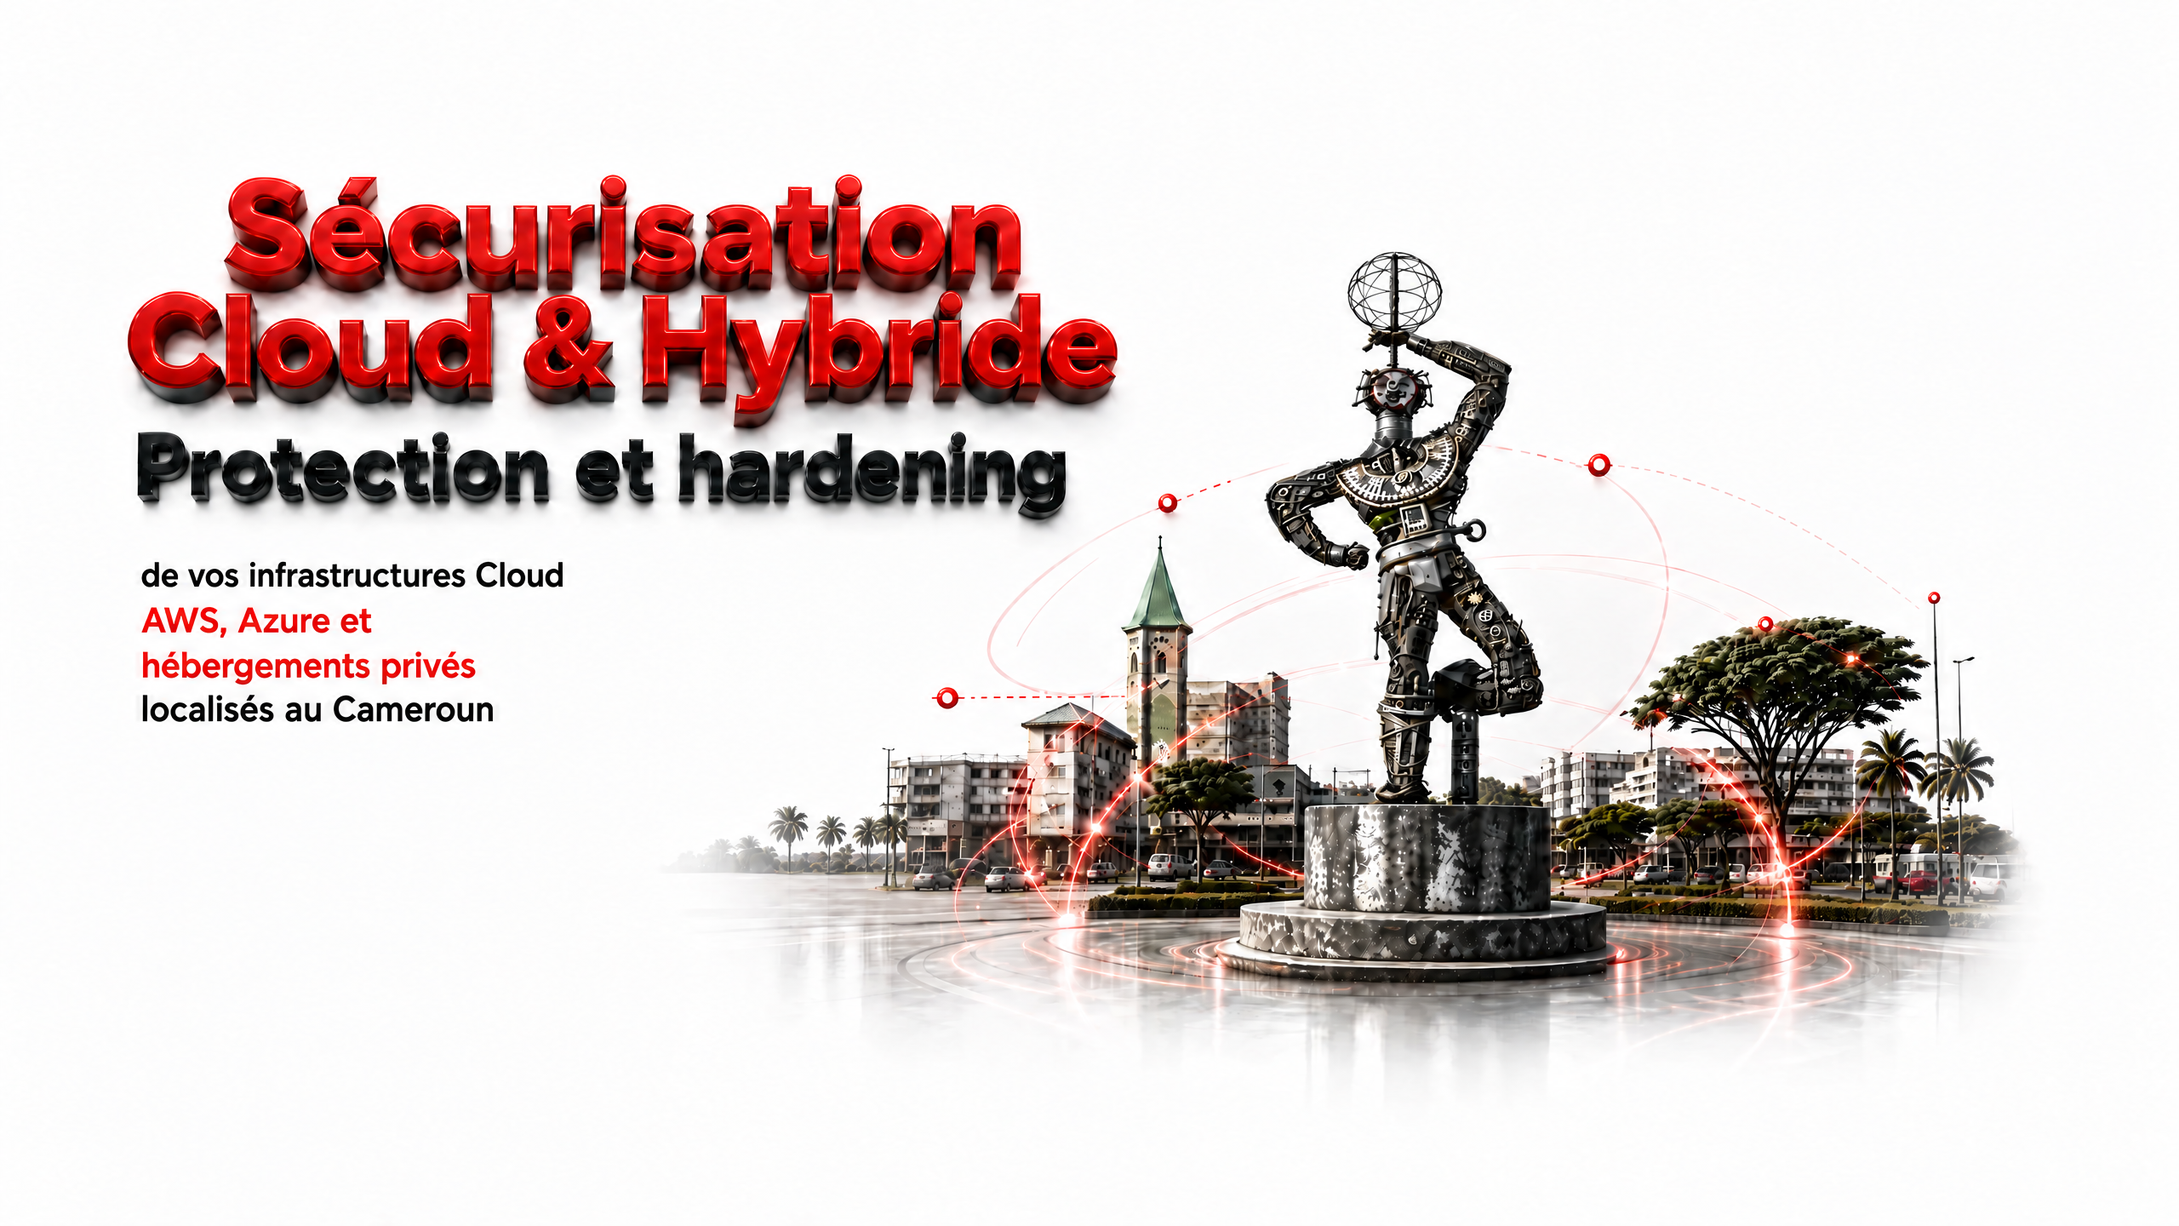
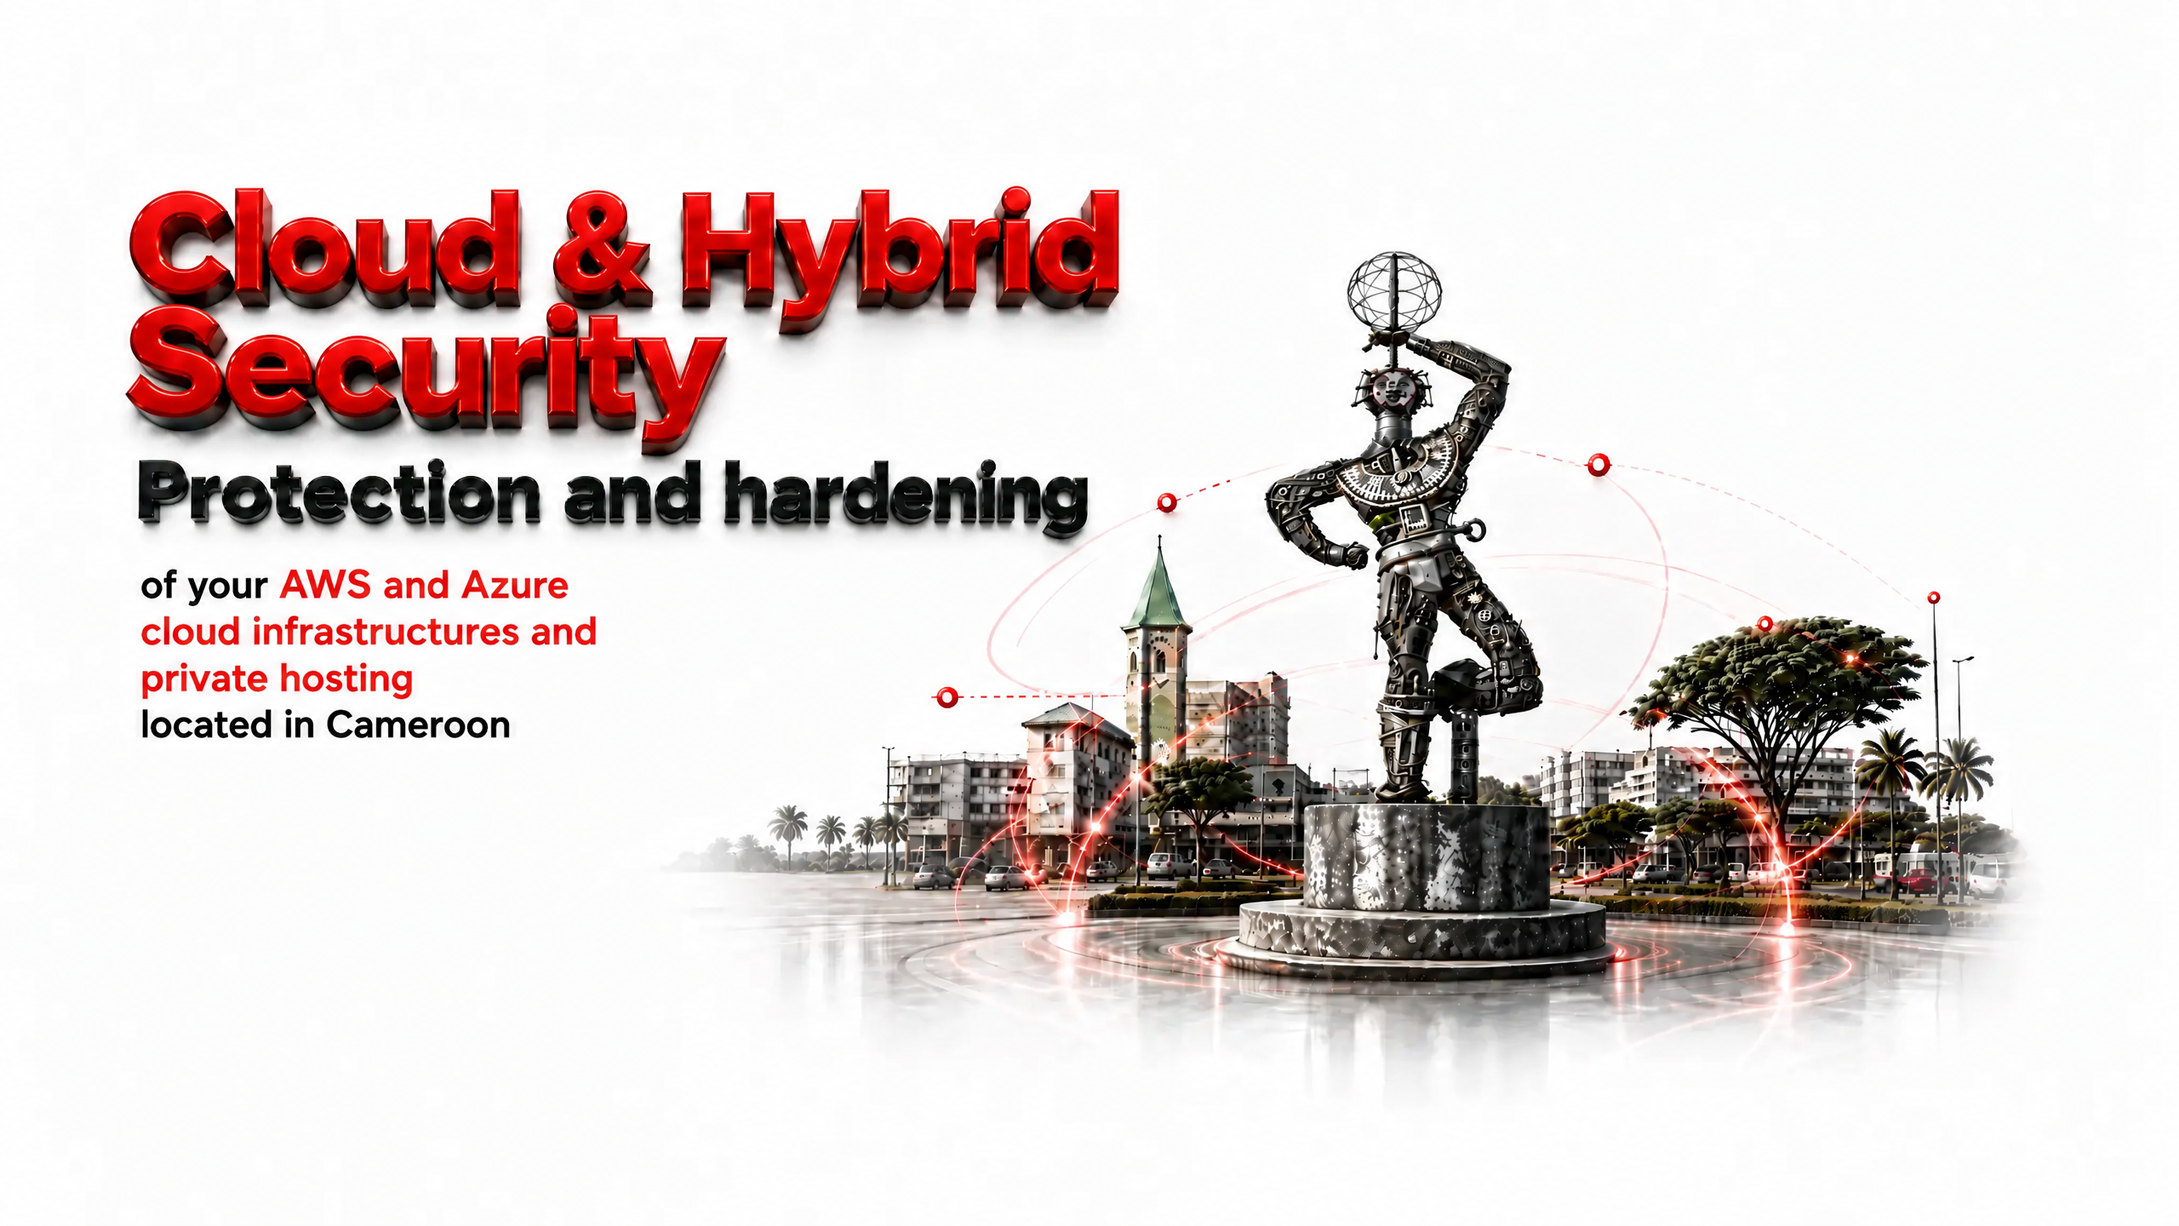
traduction de tous les fichier

Changed region(s): [[0.0625, 0.125, 0.5312, 0.625], [0.3438, 0.1875, 0.9062, 0.8125]]

diff --git a/services.html b/services.html
@@ -13,7 +13,7 @@
   <link href="https://fonts.googleapis.com/css2?family=Inter:wght@400;500;600;700&family=Space+Grotesk:wght@500;600;700&display=swap" rel="stylesheet">
 
   <!-- Stylesheet unifiée -->
-  <link rel="stylesheet" href="styles.css">
+  <link rel="stylesheet" href="styles.css?v=20261012">
   </head>
 <body>
 
@@ -125,7 +125,7 @@
         <div class="services-grid">
           <!-- Service 1 -->
           <div class="service-card reveal" id="service-audit" data-category="security">
-            <img src="pentesting_audit_cyber.png" alt="Pen-Testing et audit cyber" class="service-card-img" style="width: 350px; height: 450px;">
+            <img data-src-fr="pentesting_audit_cyber.png" data-src-en="img en/penetration_testing_cyber_audit_english.png" alt="Pen-Testing et audit cyber" class="service-card-img" style="width: 350px; height: 450px;">
             <h3 class="service-title">Pen-Testing & Audit Cyber</h3>
             <p class="service-desc">Simulations d'attaques réelles (boîte noire / blanche), audit de code, analyse de vulnérabilités et plan de remédiation complet pour votre entreprise.</p>
             <div class="service-tags">
@@ -138,7 +138,7 @@
 
           <!-- Service 2 -->
           <div class="service-card reveal" id="service-cloud" data-category="cloud">
-            <img src="cloud_hybride_sans_nuages_ni_serveur.png" alt="Sécurisation Cloud et hybride" class="service-card-img" style="width: 350px; height: 450px;">
+            <img data-src-fr="cloud_hybride_sans_nuages_ni_serveur.png" data-src-en="img en/cloud_hybride_sans_nuages_ni_serveur.png" alt="Sécurisation Cloud et hybride" class="service-card-img" style="width: 350px; height: 450px;">
             <h3 class="service-title">Sécurisation Cloud & Hybride</h3>
             <p class="service-desc">Protection et hardening de vos infrastructures Cloud AWS, Azure et hébergements privés localisés au Cameroun avec sauvegarde automatisée.</p>
             <div class="service-tags">
@@ -151,7 +151,7 @@
 
           <!-- Service 3 -->
           <div class="service-card reveal" id="service-infogerance" data-category="cloud">
-            <img src="infogerance_helpdesk_arche_j_aime_paysage.png" alt="Infogérance informatique" class="service-card-img" style="width: 350px; height: 450px;">
+            <img data-src-fr="infogerance_helpdesk_arche_j_aime_paysage.png" data-src-en="img en/managed_it_helpdesk_english.png" alt="Infogérance informatique" class="service-card-img" style="width: 350px; height: 450px;">
             <h3 class="service-title">Infogérance Complète & Helpdesk</h3>
             <p class="service-desc">Externalisez la gestion de votre informatique : assistance utilisateurs 5j/7 ou 7j/7, gestion des licences et supervision des serveurs.</p>
             <div class="service-tags">
@@ -164,7 +164,7 @@
 
           <!-- Service 4 -->
           <div class="service-card reveal" id="service-maintenance" data-category="infra">
-            <img src="maintenance_preventive.png" alt="Maintenance" class="service-card-img" style="width: 350px; height: 450px;">
+            <img data-src-fr="maintenance_preventive.png" data-src-en="img en/preventive_maintenance_english.png" alt="Maintenance" class="service-card-img" style="width: 350px; height: 450px;">
             <h3 class="service-title">Maintenance Préventive</h3>
             <p class="service-desc">Planification de visites de contrôle régulières pour dépoussiérer les serveurs, vérifier les disques durs et prévenir l'usure matérielle.</p>
             <div class="service-tags">
@@ -177,7 +177,7 @@
 
           <!-- Service 5 -->
           <div class="service-card reveal" id="service-ip" data-category="telecom">
-            <img src="telephonie_ip.png" alt="Téléphonie IP et télécoms" class="service-card-img" style="width: 350px; height: 450px;">
+            <img data-src-fr="telephonie_ip.png" data-src-en="img en/ip_telephony_telecoms_english.png" alt="Téléphonie IP et télécoms" class="service-card-img" style="width: 350px; height: 450px;">
             <h3 class="service-title">Téléphonie IP & Télécoms</h3>
             <p class="service-desc">Installation de standards téléphoniques IP PBX (Asterisk/3CX), téléphones IP d'entreprise, trunks SIP et couplage téléphonie-informatique.</p>
             <div class="service-tags">
@@ -190,7 +190,7 @@
 
           <!-- Service 6 -->
           <div class="service-card reveal" id="service-reseau" data-category="infra">
-            <img src="reseaux_informatiques_wifi_style_ip_telephony.png" alt="Réseaux" class="service-card-img" style="width: 350px; height: 450px;">
+            <img src="reseaux_informatiques_wifi_style_ip_telephony.png" data-src-fr="reseaux_informatiques_wifi_style_ip_telephony.png" alt="Réseaux" class="service-card-img" style="width: 350px; height: 450px;">
             <h3 class="service-title">Réseaux Informatiques & Wi-Fi</h3>
             <p class="service-desc">Conception, routage (Cisco/MikroTik), segmentation VLAN, sécurité Wi-Fi d'entreprise et liaisons VPN sécurisées entre vos sites.</p>
             <div class="service-tags">
@@ -203,7 +203,7 @@
 
           <!-- Service 7 -->
           <div class="service-card reveal" id="service-cablage" data-category="infra">
-            <img src="cablage.png" alt="Câblage Structuré" class="service-card-img" style="width: 350px; height: 450px;">
+            <img data-src-fr="cablage_structure_baies.png" data-src-en="img en/structured_cabling_racks_english.png" alt="Câblage Structuré" class="service-card-img" style="width: 350px; height: 450px;">
             <h3 class="service-title">Câblage Structuré & Baies</h3>
             <p class="service-desc">Tirage de câbles Ethernet réseau Cat6A/Cat7, déploiement de liaisons optiques, aménagement de baies de brassage et certification de liens.</p>
             <div class="service-tags">   
@@ -216,7 +216,7 @@
 
           <!-- Service 8 -->
           <div class="service-card reveal" id="service-video" data-category="telecom">
-            <img src="videosurveillance_controle_acces.png" alt="Vidéosurveillance" class="service-card-img" style="width: 350px; height: 450px;">
+            <img src="videosurveillance_controle_acces.png" data-src-fr="videosurveillance_controle_acces.png" alt="Vidéosurveillance" class="service-card-img" style="width: 350px; height: 450px;">
             <h3 class="service-title">Vidéosurveillance & Contrôle d'Accès</h3>
             <p class="service-desc">Systèmes de caméras IP Ultra HD avec vision nocturne, enregistreurs NVR sécurisés, tourniquets et serrures biométriques centralisées.</p>
             <div class="service-tags">

diff --git a/index.html b/index.html
@@ -13,7 +13,7 @@
   <link href="https://fonts.googleapis.com/css2?family=Inter:wght@400;500;600;700&family=Space+Grotesk:wght@500;600;700&display=swap" rel="stylesheet">
 
   <!-- Stylesheet unifiée -->
-  <link rel="stylesheet" href="styles.css">
+  <link rel="stylesheet" href="styles.css?v=20261012">
   </head>
 <body>
 
@@ -172,7 +172,7 @@
         <div class="services-carousel reveal" id="servicesCarousel" aria-label="Nos services">
           <div class="services-slides">
             <article class="service-slide is-active" data-slide="0" aria-hidden="false">
-              <img src="infogerance_helpdesk_arche_j_aime_paysage.png" data-src-en="img en/managed_it_helpdesk_english.png" alt="Infogérance complète">
+              <img data-src-fr="infogerance_helpdesk_arche_j_aime_paysage.png" data-src-en="img en/managed_it_helpdesk_english.png" alt="Infogérance complète">
               <div class="service-slide-content">
                 <span class="service-slide-kicker">Support IT</span>
                 <h3 class="service-title">Infogérance Complète & Helpdesk</h3>
@@ -181,7 +181,7 @@
               </div>
             </article>
             <article class="service-slide" data-slide="1" aria-hidden="true">
-              <img src="pentesting_audit_cyber.png" data-src-en="img en/penetration_testing_cyber_audit_english.png" alt="Pen-testing et audit cyber">
+              <img data-src-fr="pentesting_audit_cyber.png" data-src-en="img en/penetration_testing_cyber_audit_english.png" alt="Pen-testing et audit cyber">
               <div class="service-slide-content">
                 <span class="service-slide-kicker">Sécurité</span>
                 <h3 class="service-title">Pen-Testing & Audit Cyber</h3>
@@ -190,7 +190,7 @@
               </div>
             </article>
             <article class="service-slide" data-slide="2" aria-hidden="true">
-              <img src="reseaux_informatiques_wifi_style_ip_telephony.png" alt="Réseau informatique">
+              <img src="reseaux_informatiques_wifi_style_ip_telephony.png" data-src-fr="reseaux_informatiques_wifi_style_ip_telephony.png" alt="Réseau informatique">
               <div class="service-slide-content">
                 <span class="service-slide-kicker">Infrastructure</span>
                 <h3 class="service-title">Réseaux Informatiques & Wi-Fi</h3>
@@ -199,7 +199,7 @@
               </div>
             </article>
             <article class="service-slide" data-slide="3" aria-hidden="true">
-              <img src="cloud_hybride_sans_nuages_ni_serveur.png" alt="Sécurisation cloud et hybride">
+              <img data-src-fr="cloud_hybride_sans_nuages_ni_serveur.png" data-src-en="img en/cloud_hybride_sans_nuages_ni_serveur.png" alt="Sécurisation cloud et hybride">
               <div class="service-slide-content">
                 <span class="service-slide-kicker">Cloud</span>
                 <h3 class="service-title">Sécurisation Cloud & Hybride</h3>
@@ -208,7 +208,7 @@
               </div>
             </article>
             <article class="service-slide" data-slide="4" aria-hidden="true">
-              <img src="videosurveillance_controle_acces.png" alt="Vidéosurveillance et contrôle d'accès">
+              <img src="videosurveillance_controle_acces.png" data-src-fr="videosurveillance_controle_acces.png" alt="Vidéosurveillance et contrôle d'accès">
               <div class="service-slide-content">
                 <span class="service-slide-kicker">Sécurité physique</span>
                 <h3 class="service-title">Vidéosurveillance & Contrôle d'Accès</h3>
@@ -217,7 +217,7 @@
               </div>
             </article>
             <article class="service-slide" data-slide="5" aria-hidden="true">
-              <img src="cablage.png" alt="Câblage structuré et baies réseau">
+              <img data-src-fr="cablage_structure_baies.png" data-src-en="img en/structured_cabling_racks_english.png" alt="Câblage structuré et baies réseau">
               <div class="service-slide-content">
                 <span class="service-slide-kicker">Infrastructure</span>
                 <h3 class="service-title">Câblage Structuré & Baies</h3>
@@ -226,7 +226,7 @@
               </div>
             </article>
             <article class="service-slide" data-slide="6" aria-hidden="true">
-              <img src="maintenance_preventive.png" data-src-en="img en/preventive_maintenance_english.png" alt="Maintenance informatique">
+              <img data-src-fr="maintenance_preventive.png" data-src-en="img en/preventive_maintenance_english.png" alt="Maintenance informatique">
               <div class="service-slide-content">
                 <span class="service-slide-kicker">Infrastructure</span>
                 <h3 class="service-title">Maintenance Préventive</h3>
@@ -289,7 +289,7 @@
           </div>
 
           <div class="reveal">
-            <img src="reseau_jarnauld.png" alt="Réseaux Informatiques" style="border-radius: var(--radius-lg); box-shadow: var(--shadow-lg); border: 1px solid var(--border);">
+            <img src="reseau_jarnauld.png" data-src-fr="reseau_jarnauld.png" alt="Réseaux Informatiques" style="border-radius: var(--radius-lg); box-shadow: var(--shadow-lg); border: 1px solid var(--border);">
           </div>
         </div>
       </div>

diff --git a/js/lang.js b/js/lang.js
@@ -67,6 +67,17 @@
     }
   }
 
+  function applyImageLanguage(lang) {
+    document.querySelectorAll('img[data-src-fr]').forEach((image) => {
+      const source = lang === 'en' ? image.dataset.srcEn : image.dataset.srcFr;
+      image.classList.toggle('language-image-hidden', lang === 'en' && !source);
+
+      if (source && image.getAttribute('src') !== source) {
+        image.setAttribute('src', source);
+      }
+    });
+  }
+
   async function changeLanguage(lang) {
     if (!supportedLanguages.includes(lang)) {
       throw new RangeError(`Unsupported language: ${lang}`);
@@ -82,7 +93,6 @@
     currentPhrases = dictionary.phrases || {};
     document.documentElement.lang = lang;
     localStorage.setItem(storageKey, lang);
-
     document.querySelectorAll('[data-i18n], [data-i18n-link]').forEach((element) => {
       const key = element.dataset.i18n || element.dataset.i18nLink;
       const translation = dictionary.translations[key];
@@ -99,16 +109,7 @@
       if (translation !== undefined) element.setAttribute('aria-label', translation);
     });
 
-    document.querySelectorAll('img[data-src-en]').forEach((image) => {
-      if (!image.dataset.srcFr) {
-        image.dataset.srcFr = image.getAttribute('src');
-      }
-
-      const source = lang === 'en' ? image.dataset.srcEn : image.dataset.srcFr;
-      if (source && image.getAttribute('src') !== source) {
-        image.setAttribute('src', source);
-      }
-    });
+    applyImageLanguage(lang);
 
     translateTextNodes(currentPhrases);
 
@@ -138,6 +139,10 @@
     setLanguage: changeLanguage,
     getLanguage,
   };
+
+  const initialLanguage = getLanguage();
+  document.documentElement.lang = initialLanguage;
+  applyImageLanguage(initialLanguage);
 
   const contentObserver = new MutationObserver(() => {
     if (currentPhrases) translateTextNodes(currentPhrases);

diff --git a/styles.css b/styles.css
@@ -502,7 +502,7 @@ button, input, select, textarea {
   content: '';
   position: absolute;
   inset: -18px;
-  background-image: url('en/home.jpg');
+  background-image: url('home.jpg');
   background-size: cover;
   background-position: center 35%;
   filter: blur(2px) brightness(0.86) contrast(1);
@@ -1299,13 +1299,17 @@ textarea.form-control {
   position: relative;
   isolation: isolate;
   overflow: hidden;
-  background-image: url('en/footer.png');
+  background-image: url('footer.png');
   background-size: cover;
   background-position: center 42%;
   background-color: var(--dark);
   color: var(--text-white);
   padding: 80px 0 30px;
   border-top: 1px solid var(--dark-border);
+}
+
+.language-image-hidden {
+  display: none !important;
 }
 
 .footer::before {

diff --git a/contact.html b/contact.html
@@ -13,7 +13,7 @@
   <link href="https://fonts.googleapis.com/css2?family=Inter:wght@400;500;600;700&family=Space+Grotesk:wght@500;600;700&display=swap" rel="stylesheet">
 
   <!-- Stylesheet unifiée -->
-  <link rel="stylesheet" href="styles.css">
+  <link rel="stylesheet" href="styles.css?v=20261012">
   </head>
 <body>
 
@@ -313,7 +313,7 @@ document.addEventListener('DOMContentLoaded', function() {
         <div>
           <div class="brand" style="margin-bottom: 16px;">
             <div class="brand-logo" style="background:#fff;">
-              <img src="logo.png" alt="Logo">
+              <img src="LOGO EJS.jpeg" alt="Logo">
             </div>
             <span class="footer-brand-title">E-JARNAULD SOFT</span>
           </div>

diff --git a/actualites.html b/actualites.html
@@ -13,7 +13,7 @@
   <link href="https://fonts.googleapis.com/css2?family=Inter:wght@400;500;600;700&family=Space+Grotesk:wght@500;600;700&display=swap" rel="stylesheet">
 
   <!-- Stylesheet unifiée -->
-  <link rel="stylesheet" href="styles.css">
+  <link rel="stylesheet" href="styles.css?v=20261012">
   </head>
 <body>
 
@@ -212,7 +212,7 @@
         <div>
           <div class="brand" style="margin-bottom: 16px;">
             <div class="brand-logo" style="background:#fff;">
-              <img src="logo.png" alt="Logo">
+              <img src="LOGO EJS.jpeg" alt="Logo">
             </div>
             <span class="footer-brand-title">E-JARNAULD SOFT</span>
           </div>

diff --git a/about.html b/about.html
@@ -13,7 +13,7 @@
   <link href="https://fonts.googleapis.com/css2?family=Inter:wght@400;500;600;700&family=Space+Grotesk:wght@500;600;700&display=swap" rel="stylesheet">
 
   <!-- Stylesheet unifiée -->
-  <link rel="stylesheet" href="styles.css">
+  <link rel="stylesheet" href="styles.css?v=20261012">
   </head>
 <body>
 

diff --git a/astuces.html b/astuces.html
@@ -13,7 +13,7 @@
   <link href="https://fonts.googleapis.com/css2?family=Inter:wght@400;500;600;700&family=Space+Grotesk:wght@500;600;700&display=swap" rel="stylesheet">
 
   <!-- Stylesheet unifiée -->
-  <link rel="stylesheet" href="styles.css">
+  <link rel="stylesheet" href="styles.css?v=20261012">
   </head>
 <body>
 

diff --git a/cgv.html b/cgv.html
@@ -13,7 +13,7 @@
   <link href="https://fonts.googleapis.com/css2?family=Inter:wght@400;500;600;700&family=Space+Grotesk:wght@500;600;700&display=swap" rel="stylesheet">
 
   <!-- Stylesheet unifiée -->
-  <link rel="stylesheet" href="styles.css">
+  <link rel="stylesheet" href="styles.css?v=20261012">
   </head>
 <body>
 

diff --git a/confidentialite.html b/confidentialite.html
@@ -13,7 +13,7 @@
   <link href="https://fonts.googleapis.com/css2?family=Inter:wght@400;500;600;700&family=Space+Grotesk:wght@500;600;700&display=swap" rel="stylesheet">
 
   <!-- Stylesheet unifiée -->
-  <link rel="stylesheet" href="styles.css">
+  <link rel="stylesheet" href="styles.css?v=20261012">
   </head>
 <body>
 

diff --git a/en/index.html b/en/index.html
@@ -1,0 +1,10 @@
+<!doctype html>
+<html lang="en">
+<head>
+  <meta charset="utf-8">
+  <title>Redirecting to English version...</title>
+  <script>location.replace('../index.html?lang=en');</script>
+</head>
+<body>
+</body>
+</html>

diff --git a/en/astuces.html b/en/astuces.html
@@ -1,0 +1,10 @@
+<!doctype html>
+<html lang="en"><head><meta charset="utf-8">
+<title>Redirecting...</title>
+<script>location.replace('../astuces.html?lang=en');
+</script>
+</head>
+<body>
+
+</body>
+</html>
